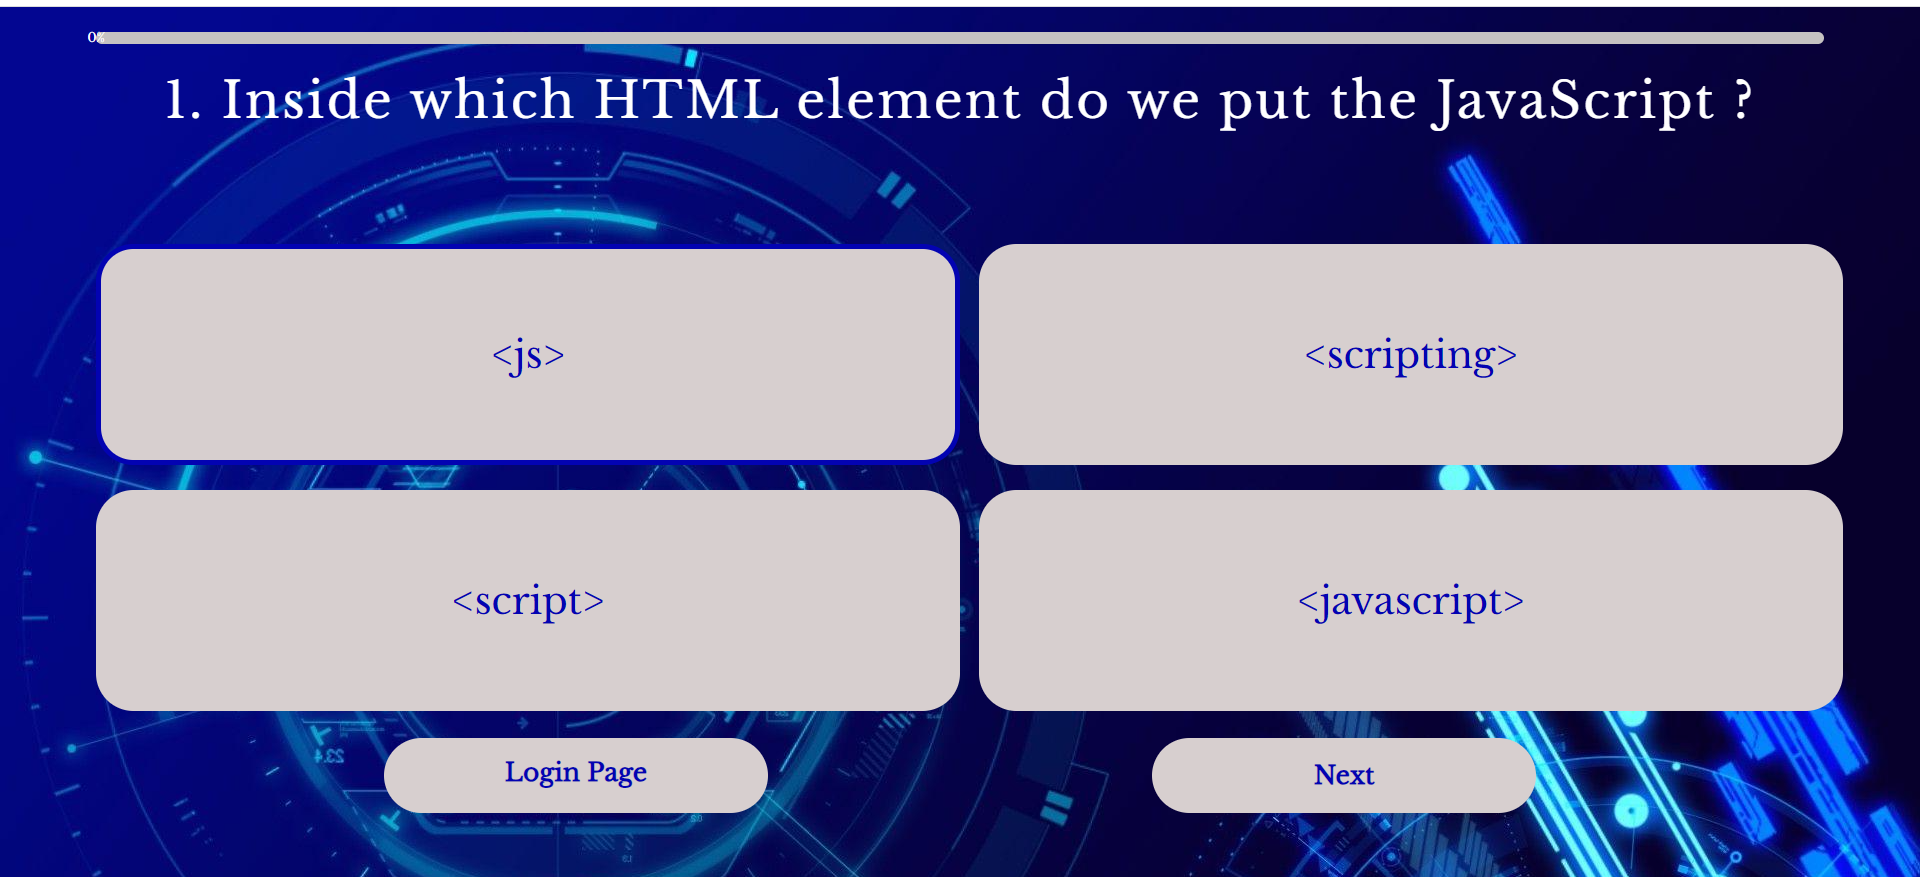
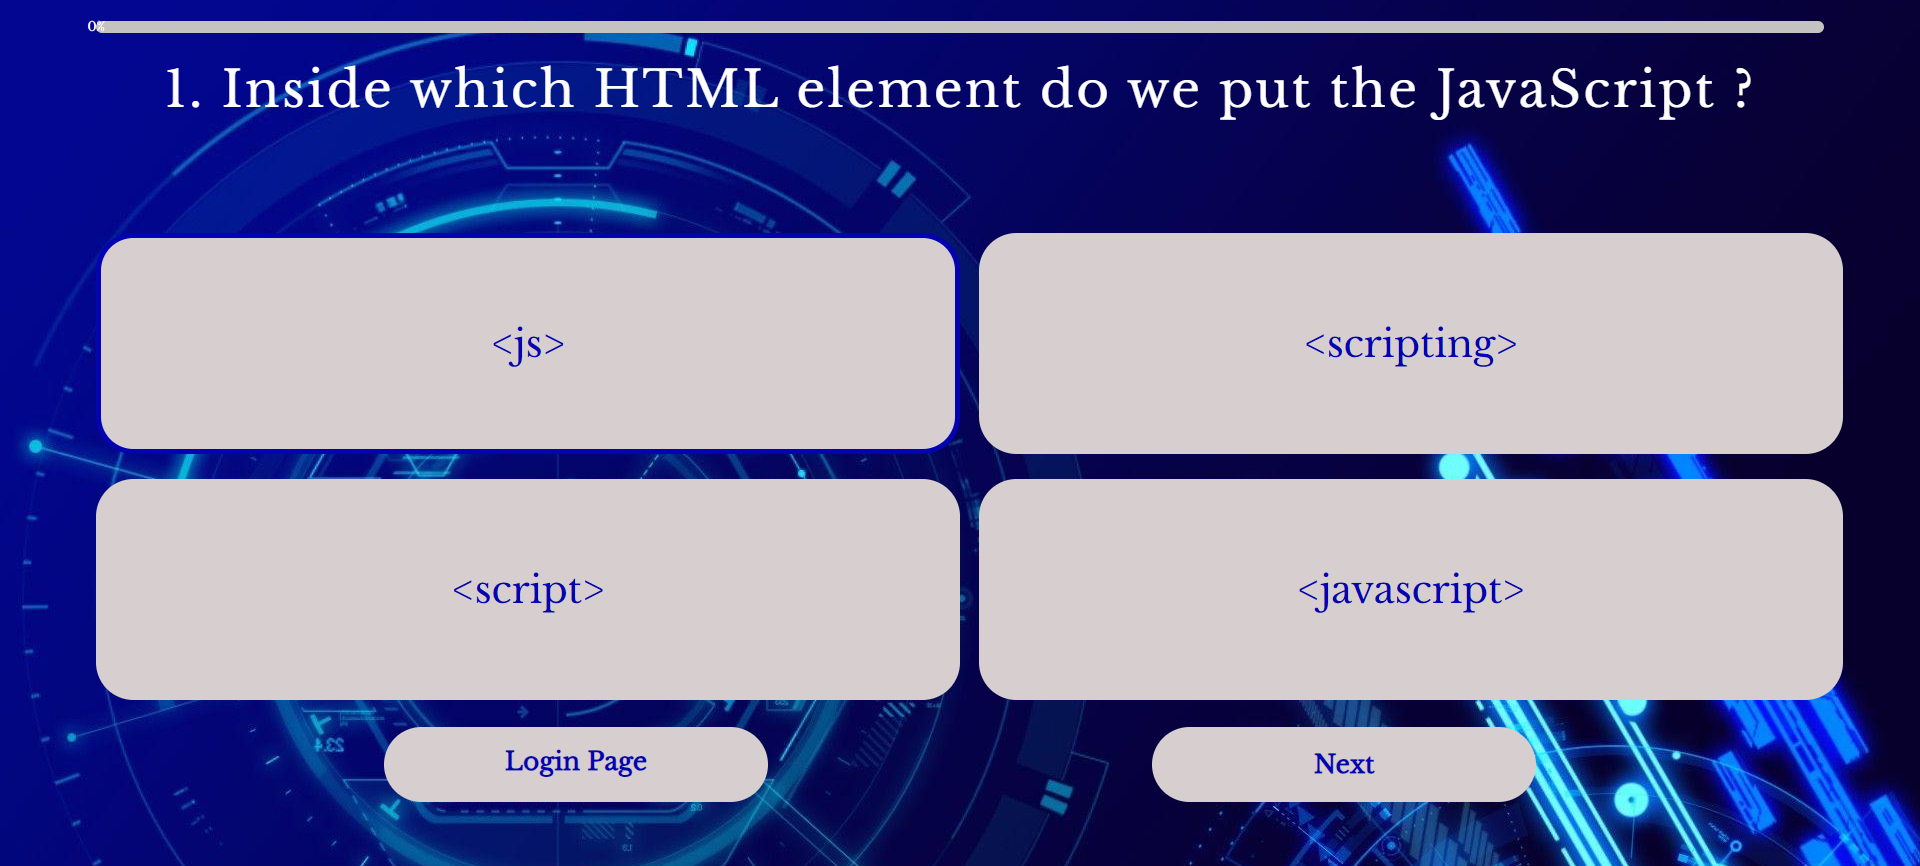
edit media queries

diff --git a/assets/css/style.css b/assets/css/style.css
@@ -142,7 +142,6 @@ label {
     background-color: rgb(215, 207, 207);
     color: rgb(3, 3, 178);
     font-size: 3rem;
-    margin-left: 15px;
     margin-top: 20px;
     border-radius: 30px;
 }
@@ -209,12 +208,26 @@ label {
 
 .correct {
     background-color: rgb(115, 240, 115);
+    animation: blinking 2s;
+}
 
+@keyframes blinking {
+    0% {
+        opacity: 1;
+    }
+
+    50% {
+        opacity: 0;
+    }
+
+    100% {
+        opacity: 1;
+    }
 }
 
 .incorrect {
     background-color: rgb(247, 60, 60);
-    animation: blink-animation .1s;
+    animation: blink-animation .5s;
 
 }
 
@@ -223,39 +236,15 @@ label {
         opacity: 0;
     }
 
-    10% {
+    25% {
         opacity: 1;
-    }
-
-    20% {
-        opacity: 0;
-    }
-
-    30% {
-        opacity: 1;
-    }
-
-    40% {
-        opacity: 0;
     }
 
     50% {
-        opacity: 1;
-    }
-
-    60% {
         opacity: 0;
     }
 
-    70% {
-        opacity: 1;
-    }
-
-    80% {
-        opacity: 0;
-    }
-
-    90% {
+    75% {
         opacity: 1;
     }
 
@@ -305,17 +294,18 @@ label {
     }
 
     #intro {
-        font-size: 2.5rem;
+        font-size: 2.2rem;
         padding: 0;
         padding-top: 10%;
         padding-bottom: 10%;
     }
 
     #start-btn {
-        width: 25%;
-        height: 35px;
+        width: 35%;
+        height: 40px;
         font-size: 1.5rem;
-        margin-top: 25%;
+        margin-top: 18%;
+        padding-top: 0%;
     }
 
     #start-btn:hover {
@@ -324,28 +314,26 @@ label {
     }
 
     #question-container {
-        font-size: 2.3rem;
-
+        font-size: 2rem;
+        height: 10%;
         text-align: center;
     }
 
     #options-container {
-        height: 50%;
+        height: 42%;
 
     }
 
     .answer-button {
-        height: 20%;
+        height: 15%;
         width: 90vw;
         font-size: 1.3rem;
-
     }
 
     #next-btn {
         width: 30%;
         height: 35px;
-        margin-top: 15%;
-
+        margin-top: 3%;
         font-size: 1.5rem;
     }
 
@@ -353,8 +341,8 @@ label {
 
         width: 30%;
         height: 35px;
-        margin-top: 15%;
-
+        margin-top: 3%;
+        padding-top: 2%;
         font-size: 1.5rem;
     }
 }
@@ -391,26 +379,41 @@ label {
         margin-top: 5%;
     }
 
-    #question-container {
-        font-size: 3rem;
+    #progressbar-container {
+        height: 10%;
+    }
 
+    #question-container {
+        font-size: 2.7rem;
+        height: 8%;
+
+    }
+
+    #options-container {
+        height: 30%;
     }
 
     .answer-button {
         font-size: 2.2rem;
+        height: 20%;
+    }
+
+    #buttons {
+        height: 15%;
     }
 
     #next-btn {
-        margin-top: 8%;
-        font-size: 2.5rem;
-        height: 50px;
+        font-size: 1.7rem;
+        height: 25%;
+        margin-top: 5%;
     }
 
     #back-btn {
+        height: 25%;
+        font-size: 1.7rem;
+        margin-top: 5%;
+        padding-top: 1%;
 
-        height: 50px;
-        margin-top: 8%;
-        font-size: 2.5rem;
     }
 
     .feedback {
@@ -438,7 +441,7 @@ label {
 
 }
 
-@media (min-width:1100px) {
+@media (min-width:1000px) {
     header {
         padding-top: 5%;
     }
@@ -464,6 +467,7 @@ label {
         margin-top: 5%;
         margin-bottom: 0px;
         display: none;
+        padding-top: 1.5%;
     }
 
     #question-container {
@@ -474,16 +478,26 @@ label {
 
     }
 
+    #options-container {
+        width: 100%;
+        height: 50%;
+    }
+
     .answer-button {
         height: 50%;
         width: 45vw;
         font-size: 3rem;
+        margin-left: 2%;
+    }
+
+    #buttons {
+        height: 20%;
     }
 
     #next-btn {
         width: 20%;
         height: 60px;
-        margin-top: 4%;
+        margin-top: 7%;
         font-size: 2rem;
 
     }
@@ -498,7 +512,7 @@ label {
         text-align: center;
 
         border-radius: 30px;
-        margin-top: 4%;
+        margin-top: 7%;
         background-color: rgb(215, 207, 207);
 
     }

diff --git a/quiz-page.html b/quiz-page.html
@@ -24,10 +24,14 @@
     <!-- displays the four options for the question-->
     <div id="options-container">
       <div>
-        <button class="answer-button" aria-label="option1">Option1</button>
-        <button class="answer-button" aria-label="option2">Option2</button>
-        <button class="answer-button" aria-label="option3">Option3</button>
-        <button class="answer-button" aria-label="option4">Option4</button>
+        <div id="top-container">
+          <button class="answer-button" aria-label="option1">Option1</button>
+          <button class="answer-button" aria-label="option2">Option2</button>
+        </div>
+        <div id="bottom-container">
+          <button class="answer-button" aria-label="option3">Option3</button>
+          <button class="answer-button" aria-label="option4">Option4</button>
+        </div>
       </div>
     </div>
     <!-- displays the next and back button-->

diff --git a/assets/js/quizScript.js b/assets/js/quizScript.js
@@ -210,7 +210,7 @@ let score = 0;
 function startQuiz() {
     document.getElementById("progressDone").style.width = "0%";
     document.getElementById("progressDone").innerHTML = "0%";
-
+    document.getElementById("back-btn").textContent = "Login Page";
 
     currentQuestionNumber = 0;
     score = 0;
